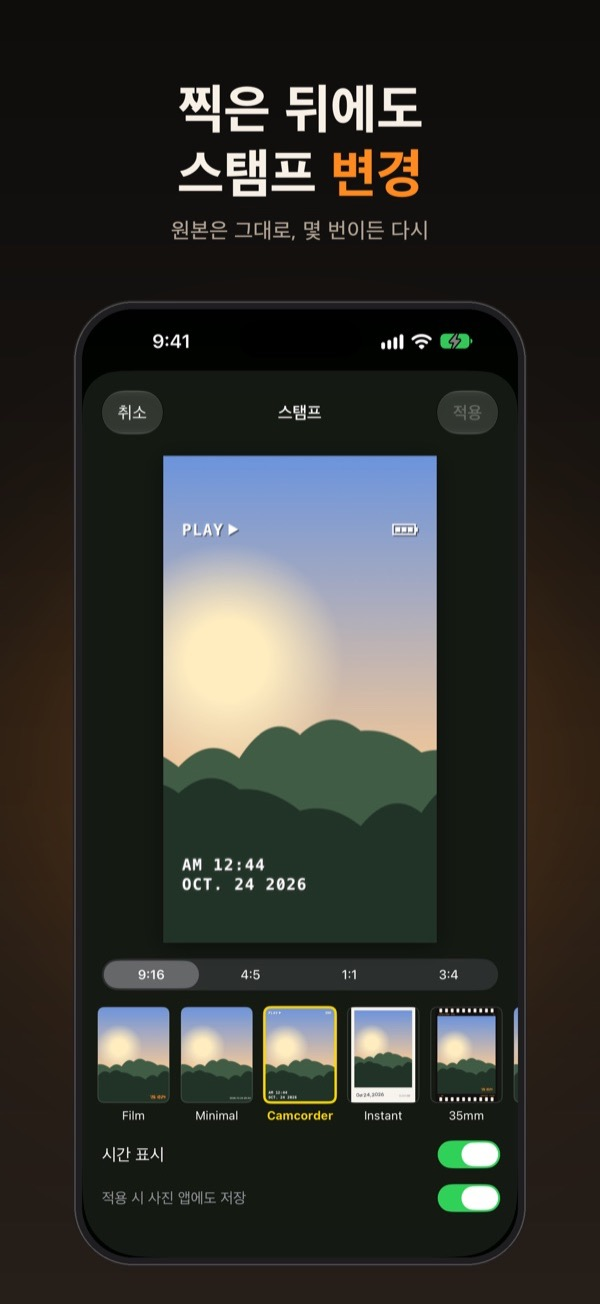
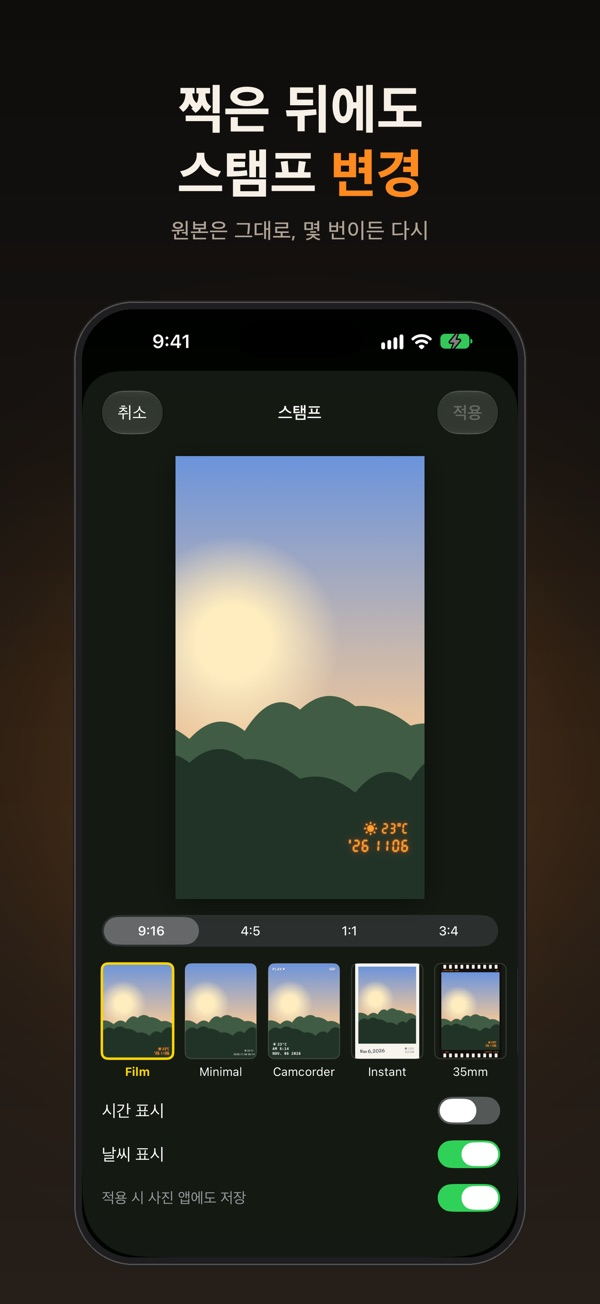
lifestamp: 1.0.5 날씨 스탬프 반영 (랜딩 기능·스크린샷·개인정보 요약·llms)

diff --git a/lifestamp/index.html b/lifestamp/index.html
@@ -8,7 +8,7 @@ permalink: /lifestamp/
   <meta charset="utf-8">
   <meta name="viewport" content="width=device-width, initial-scale=1">
   <title>Lifestamp - 삶의 모든 순간이 하나의 이야기가 됩니다 | 찍는 순간을 새기는 날짜 카메라</title>
-  <meta name="description" content="Lifestamp는 셔터를 누른 순간의 날짜와 시각을 필름 카메라처럼 사진에 새겨 주는 무료 아이폰 카메라 앱입니다. 스탬프 15가지, 9:16 스토리 비율, 찍은 뒤에도 스타일 변경, 원본 해상도 저장. 회원가입·광고 없음.">
+  <meta name="description" content="Lifestamp는 셔터를 누른 순간의 날짜와 시각을 필름 카메라처럼 사진에 새겨 주는 무료 아이폰 카메라 앱입니다. 스탬프 15가지, 촬영 순간의 날씨·기온, 9:16 스토리 비율, 찍은 뒤에도 스타일 변경, 원본 해상도 저장. 회원가입·광고 없음.">
   <link rel="canonical" href="https://cumulus.team/lifestamp/">
   <link rel="alternate" hreflang="ko" href="https://cumulus.team/lifestamp/">
   <link rel="alternate" hreflang="en" href="https://cumulus.team/lifestamp/en/">
@@ -84,12 +84,12 @@ permalink: /lifestamp/
         "zh",
         "es"
       ],
-      "softwareVersion": "1.0.4",
+      "softwareVersion": "1.0.5",
       "datePublished": "2026-10-12",
-      "dateModified": "2026-10-24",
-      "fileSize": "5.2MB",
+      "dateModified": "2026-11-05",
+      "fileSize": "5.3MB",
       "contentRating": "4+",
-      "releaseNotes": "• 새 스탬프 5가지: 소인(Postmark), 고무 도장(Inked), 티켓(Ticket), 영수증(Receipt), 달력(Calendar)\n• 사진 비율을 고를 수 있어요. 카메라 화면의 비율 버튼으로 9:16, 4:5, 1:1, 3:4를 바꾸고, 찍은 뒤 스탬프 편집에서도 바꿀 수 있어요. 기본 9:16은 스토리 크기이고, 스탬프가 스토리 화면의 위아래 메뉴에 가리지 않아요.\n• 카메라 화면이 넓어졌어요. 고른 비율 그대로 화면 폭을 꽉 채우고, 스탬프 크기와 위치도 비율마다 알맞게 맞췄어요.\n• 사진이 처음부터 스토리 크기로 찍히니 따로 있던 '스토리용 공유'는 없앴어요. 이제 공유 버튼 하나로 저장된 사진을 그대로 보내요.\n\n오늘의 한 장에 오늘의 시간을.",
+      "releaseNotes": "• 이제 스탬프에 그 순간의 날씨도 함께 찍혀요. 날씨 아이콘과 온도가 15가지 스탬프 모두에 어울리게 들어가요.\n• 날씨를 받아 오려면 대략적인 위치가 필요해요. 위치를 허용하지 않거나 날씨를 받아 오지 못하면 스탬프는 평소처럼 찍혀요.\n• 날씨를 빼고 싶다면 카메라 설정에서 끄거나, 찍은 뒤 스탬프 변경에서 사진마다 끌 수 있어요.\n\n오늘의 한 장에 오늘의 시간을.",
       "image": {
         "@type": "ImageObject",
         "url": "https://cumulus.team/lifestamp/img/lifestamp-app-icon.png",
@@ -106,6 +106,7 @@ permalink: /lifestamp/
       ],
       "featureList": [
         "셔터를 누른 순간의 날짜·시각을 사진에 스탬프로 새기기",
+        "촬영 순간의 날씨 아이콘·기온 표시(위치 허용 시, 설정에서 끄기 가능)",
         "스탬프 15가지: Film, Minimal, Camcorder, Instant, 35mm, Timemark, Magazine, Postmark, Inked, Ticket, Receipt, Calendar, Scribble, Sticker, Marker",
         "화면을 좌우로 넘겨 스탬프 스타일 전환",
         "사진 비율 9:16(스토리)·4:5·1:1·3:4 선택",
@@ -134,7 +135,7 @@ permalink: /lifestamp/
       "about": {
         "@id": "https://cumulus.team/lifestamp/#app"
       },
-      "dateModified": "2026-10-29"
+      "dateModified": "2026-11-06"
     },
     {
       "@type": "FAQPage",
@@ -331,7 +332,7 @@ header.hero :focus-visible{outline-color:#fff;box-shadow:0 0 0 6px rgba(0,0,0,.6
         <div><dt>카테고리</dt><dd class="as-val">사진 및 비디오</dd></div>
         <div><dt>개발자</dt><dd class="as-cap">Team Cumulus</dd></div>
         <div><dt>언어</dt><dd class="as-val">KO</dd><dd class="as-cap">외 6개 언어</dd></div>
-        <div><dt>크기</dt><dd class="as-val">5.2</dd><dd class="as-cap">MB</dd></div>
+        <div><dt>크기</dt><dd class="as-val">5.3</dd><dd class="as-cap">MB</dd></div>
       </dl></div></div>
     <section id="summary" aria-labelledby="h-summary">
       <div class="wrap">
@@ -356,9 +357,9 @@ header.hero :focus-visible{outline-color:#fff;box-shadow:0 0 0 6px rgba(0,0,0,.6
       <div class="wrap">
         <h2 id="h-screens">미리 보기</h2>
         <ul class="as-shots" tabindex="0" aria-label="스크린샷 5장, 좌우로 넘겨 보기">
-          <li><figure><img src="/lifestamp/img/screen-01.jpg" width="600" height="1304" loading="lazy" alt="카메라 화면: 9:16 풍경 미리보기 오른쪽 아래에 주황색 필름 날짜 스탬프 '26 10 24"><figcaption>찍는 순간 시각을 새기는 카메라</figcaption></figure></li>
+          <li><figure><img src="/lifestamp/img/screen-01.jpg" width="600" height="1304" loading="lazy" alt="카메라 화면: 9:16 풍경 미리보기 오른쪽 아래에 주황색 필름 날짜 스탬프 '26 11 06과 맑음 아이콘·23°C"><figcaption>찍는 순간 시각과 날씨를 새기는 카메라</figcaption></figure></li>
           <li><figure><img src="/lifestamp/img/screen-02.jpg" width="600" height="1304" loading="lazy" alt="즉석사진 스타일: 흰 테두리 아래에 날짜가 적힌 미리보기"><figcaption>스탬프 15가지</figcaption></figure></li>
-          <li><figure><img src="/lifestamp/img/screen-03.jpg" width="600" height="1304" loading="lazy" alt="스탬프 변경 화면: 찍은 사진의 비율(9:16·4:5·1:1·3:4), 스타일, 시간 표시를 바꾸는 편집기"><figcaption>찍은 뒤에도 스탬프 변경</figcaption></figure></li>
+          <li><figure><img src="/lifestamp/img/screen-03.jpg" width="600" height="1304" loading="lazy" alt="스탬프 변경 화면: 찍은 사진의 비율(9:16·4:5·1:1·3:4), 스타일, 시간·날씨 표시를 바꾸는 편집기"><figcaption>찍은 뒤에도 스탬프 변경</figcaption></figure></li>
           <li><figure><img src="/lifestamp/img/screen-04.jpg" width="600" height="1304" loading="lazy" alt="갤러리: 월별로 정리된 사진 격자"><figcaption>월별로 모아 보는 갤러리</figcaption></figure></li>
           <li><figure><img src="/lifestamp/img/screen-05.jpg" width="600" height="1304" loading="lazy" alt="사진 상세 화면: 캠코더 스타일 스탬프가 들어간 사진과 공유 버튼"><figcaption>원본 해상도로 저장·공유</figcaption></figure></li>
         </ul>
@@ -379,6 +380,7 @@ header.hero :focus-visible{outline-color:#fff;box-shadow:0 0 0 6px rgba(0,0,0,.6
         <h2>주요 기능</h2>
         <ul class="features">
           <li><strong>촬영 시각 스탬프</strong>셔터를 누른 순간의 날짜·시각이 미리보기 그대로 사진에 새겨져요.</li>
+          <li><strong>날씨까지 함께</strong>찍는 순간의 날씨 아이콘과 기온이 스탬프에 함께 들어가요. 위치를 허용하지 않거나 날씨를 받지 못하면 날씨 없이 찍혀요. 설정에서 끌 수 있어요.</li>
           <li><strong>스탬프 15가지</strong>화면을 좌우로 넘기면 필름, 캠코더, 즉석사진, 소인, 영수증 등으로 바로 바뀌어요.</li>
           <li><strong>사진 비율 선택</strong>9:16, 4:5, 1:1, 3:4 중에서 골라요. 기본 9:16은 스토리 크기라 스탬프가 위아래 메뉴에 가리지 않아요.</li>
           <li><strong>찍은 뒤에도 변경</strong>원본을 그대로 보관해서 스타일, 비율, 시각 표시를 몇 번이든 다시 바꿀 수 있어요.</li>
@@ -396,12 +398,11 @@ header.hero :focus-visible{outline-color:#fff;box-shadow:0 0 0 6px rgba(0,0,0,.6
     <section id="whats-new" aria-labelledby="h-new">
       <div class="wrap">
         <h2 id="h-new">새로운 기능</h2>
-        <p class="as-meta"><span>버전 1.0.4</span><time datetime="2026-10-23T21:29:33Z">2026년 10월 24일</time></p>
+        <p class="as-meta"><span>버전 1.0.5</span><time datetime="2026-11-04T21:43:55Z">2026년 11월 5일</time></p>
         <ul class="as-notes">
-          <li>새 스탬프 5가지: 소인(Postmark), 고무 도장(Inked), 티켓(Ticket), 영수증(Receipt), 달력(Calendar)</li>
-          <li>사진 비율을 고를 수 있어요. 카메라 화면의 비율 버튼으로 9:16, 4:5, 1:1, 3:4를 바꾸고, 찍은 뒤 스탬프 편집에서도 바꿀 수 있어요. 기본 9:16은 스토리 크기이고, 스탬프가 스토리 화면의 위아래 메뉴에 가리지 않아요.</li>
-          <li>카메라 화면이 넓어졌어요. 고른 비율 그대로 화면 폭을 꽉 채우고, 스탬프 크기와 위치도 비율마다 알맞게 맞췄어요.</li>
-          <li>사진이 처음부터 스토리 크기로 찍히니 따로 있던 '스토리용 공유'는 없앴어요. 이제 공유 버튼 하나로 저장된 사진을 그대로 보내요.</li>
+          <li>이제 스탬프에 그 순간의 날씨도 함께 찍혀요. 날씨 아이콘과 온도가 15가지 스탬프 모두에 어울리게 들어가요.</li>
+          <li>날씨를 받아 오려면 대략적인 위치가 필요해요. 위치를 허용하지 않거나 날씨를 받아 오지 못하면 스탬프는 평소처럼 찍혀요.</li>
+          <li>날씨를 빼고 싶다면 카메라 설정에서 끄거나, 찍은 뒤 스탬프 변경에서 사진마다 끌 수 있어요.</li>
         </ul>
         <p>오늘의 한 장에 오늘의 시간을.</p>
       </div>
@@ -451,7 +452,7 @@ header.hero :focus-visible{outline-color:#fff;box-shadow:0 0 0 6px rgba(0,0,0,.6
         <h2 id="h-priv">앱 개인정보 보호</h2>
         <ul class="as-priv">
           <li><strong>수집하는 정보</strong>앱 개선을 위해 익명 오류 정보와 사용 통계만 수집하며 광고 식별자(IDFA)는 쓰지 않습니다.</li>
-          <li><strong>기기에만 저장</strong>사진과 촬영 시각은 기기 안에만 저장되고 서버로 보내지 않습니다.</li>
+          <li><strong>기기에만 저장</strong>사진과 촬영 시각은 기기 안에만 저장되고 서버로 보내지 않습니다. 날씨를 받을 때만 약 1km 단위로 줄인 위치를 날씨 서비스(Open-Meteo)에 보냅니다.</li>
         </ul>
         <p class="as-src">개인정보 처리방침에서 옮긴 요약입니다.</p>
         <p><a href="/lifestamp/privacy/">개인정보 처리방침</a></p>
@@ -463,7 +464,7 @@ header.hero :focus-visible{outline-color:#fff;box-shadow:0 0 0 6px rgba(0,0,0,.6
         <h2 id="h-info">정보</h2>
         <dl class="as-info">
           <div><dt>개발자</dt><dd>Team Cumulus</dd></div>
-          <div><dt>크기</dt><dd>5.2MB</dd></div>
+          <div><dt>크기</dt><dd>5.3MB</dd></div>
           <div><dt>카테고리</dt><dd>사진 및 비디오, 라이프스타일</dd></div>
           <div><dt>호환성</dt><dd>iPhone · iOS 17.0 이상 필요</dd></div>
           <div><dt>언어</dt><dd>영어, 프랑스어, 독일어, 일본어, 한국어, 중국어, 스페인어</dd></div>
@@ -471,7 +472,7 @@ header.hero :focus-visible{outline-color:#fff;box-shadow:0 0 0 6px rgba(0,0,0,.6
           <div><dt>가격</dt><dd>무료</dd></div>
           <div><dt>최초 출시</dt><dd>2026년 10월 12일</dd></div>
         </dl>
-        <p class="as-src">App Store 정보 확인: <time datetime="2026-11-05">2026년 11월 5일</time></p>
+        <p class="as-src">App Store 정보 확인: <time datetime="2026-11-06">2026년 11월 6일</time></p>
       </div>
     </section>
 
@@ -504,7 +505,7 @@ header.hero :focus-visible{outline-color:#fff;box-shadow:0 0 0 6px rgba(0,0,0,.6
   <footer>
     <div class="wrap">
       <p>Lifestamp · 만든 곳 <a href="https://cumulus.team/">Team Cumulus</a> · 문의 <a href="mailto:contact@cumulus.team">contact@cumulus.team</a></p>
-      <p><a href="/lifestamp/support/">지원</a> · <a href="/lifestamp/privacy/">개인정보 처리방침</a> · <!-- appstore:updated:start -->최종 수정 <time datetime="2026-10-29">2026년 10월 29일</time> (앱 1.0.4 기준)<!-- appstore:updated:end --> · <a href="/lifestamp/en/" hreflang="en">English</a></p>
+      <p><a href="/lifestamp/support/">지원</a> · <a href="/lifestamp/privacy/">개인정보 처리방침</a> · <!-- appstore:updated:start -->최종 수정 <time datetime="2026-11-06">2026년 11월 6일</time> (앱 1.0.5 기준)<!-- appstore:updated:end --> · <a href="/lifestamp/en/" hreflang="en">English</a></p>
     </div>
   </footer>
 </body>

diff --git a/lifestamp/en/index.html b/lifestamp/en/index.html
@@ -8,7 +8,7 @@ permalink: /lifestamp/en/
   <meta charset="utf-8">
   <meta name="viewport" content="width=device-width, initial-scale=1">
   <title>Lifestamp - Your life. Your story. | Date Stamp Camera for iPhone</title>
-  <meta name="description" content="Lifestamp is a free iPhone camera that stamps the date and time onto your photo the moment you shoot, like a film camera. 15 stamp styles, Story-sized 9:16 photos. No sign-up, no ads.">
+  <meta name="description" content="Lifestamp is a free iPhone camera that stamps the date and time onto your photo the moment you shoot, like a film camera. 15 stamp styles, the weather at the moment you shoot, Story-sized 9:16 photos. No sign-up, no ads.">
   <link rel="canonical" href="https://cumulus.team/lifestamp/en/">
   <link rel="alternate" hreflang="ko" href="https://cumulus.team/lifestamp/">
   <link rel="alternate" hreflang="en" href="https://cumulus.team/lifestamp/en/">
@@ -84,12 +84,12 @@ permalink: /lifestamp/en/
         "zh",
         "es"
       ],
-      "softwareVersion": "1.0.4",
+      "softwareVersion": "1.0.5",
       "datePublished": "2026-10-12",
-      "dateModified": "2026-10-23",
-      "fileSize": "5.2MB",
+      "dateModified": "2026-11-04",
+      "fileSize": "5.3MB",
       "contentRating": "4+",
-      "releaseNotes": "• 5 new stamps: Postmark, Inked, Ticket, Receipt and Calendar.\n• Choose your aspect ratio. Tap the ratio button on the camera to switch between 9:16, 4:5, 1:1 and 3:4, or change it later in the stamp editor. The default 9:16 is Story-sized, and your stamp stays clear of the Stories controls at the top and bottom.\n• A bigger viewfinder: your chosen ratio now fills the full width of the screen, and stamps are sized and placed to fit each ratio.\n• Since photos are now Story-sized from the start, the separate Share for Stories option is gone. One Share button sends your saved photo as it is.\n\nToday's shot, stamped with today's time.",
+      "releaseNotes": "• Your stamp now remembers the weather. A weather icon and the temperature join the date on all 15 stamps.\n• Weather needs your approximate location. If you don't allow it, or the weather can't be fetched, your stamp looks the way it always has.\n• Prefer it without? Turn it off in the camera settings, or for any photo under Change Stamp.\n\nToday's shot, stamped with today's time.",
       "image": {
         "@type": "ImageObject",
         "url": "https://cumulus.team/lifestamp/img/lifestamp-app-icon.png",
@@ -106,6 +106,7 @@ permalink: /lifestamp/en/
       ],
       "featureList": [
         "Stamps the date and time of capture onto the photo",
+        "Adds a weather icon and temperature from the moment you shoot (with location access, can be turned off)",
         "15 stamp styles: Film, Minimal, Camcorder, Instant, 35mm, Timemark, Magazine, Postmark, Inked, Ticket, Receipt, Calendar, Scribble, Sticker, Marker",
         "Swipe left or right to switch stamp styles",
         "Photo aspect ratios: 9:16 (Stories), 4:5, 1:1, 3:4",
@@ -134,7 +135,7 @@ permalink: /lifestamp/en/
       "about": {
         "@id": "https://cumulus.team/lifestamp/#app"
       },
-      "dateModified": "2026-10-29"
+      "dateModified": "2026-11-06"
     },
     {
       "@type": "FAQPage",
@@ -331,7 +332,7 @@ header.hero :focus-visible{outline-color:#fff;box-shadow:0 0 0 6px rgba(0,0,0,.6
         <div><dt>Category</dt><dd class="as-val">Photo &amp; Video</dd></div>
         <div><dt>Developer</dt><dd class="as-cap">Team Cumulus</dd></div>
         <div><dt>Language</dt><dd class="as-val">EN</dd><dd class="as-cap">+ 6 More</dd></div>
-        <div><dt>Size</dt><dd class="as-val">5.2</dd><dd class="as-cap">MB</dd></div>
+        <div><dt>Size</dt><dd class="as-val">5.3</dd><dd class="as-cap">MB</dd></div>
       </dl></div></div>
     <section id="summary" aria-labelledby="h-summary">
       <div class="wrap">
@@ -356,9 +357,9 @@ header.hero :focus-visible{outline-color:#fff;box-shadow:0 0 0 6px rgba(0,0,0,.6
       <div class="wrap">
         <h2 id="h-screens">Screenshots</h2>
         <ul class="as-shots" tabindex="0" aria-label="5 screenshots, scroll sideways">
-          <li><figure><img src="/lifestamp/img/en/screen-01.jpg" width="600" height="1304" loading="lazy" alt="Camera screen with an orange film-style date stamp in the bottom right of a 9:16 preview"><figcaption>A camera that stamps the moment</figcaption></figure></li>
+          <li><figure><img src="/lifestamp/img/en/screen-01.jpg" width="600" height="1304" loading="lazy" alt="Camera screen with an orange film-style date stamp and a sunny 23°C weather badge in the bottom right of a 9:16 preview"><figcaption>A camera that stamps the moment and the weather</figcaption></figure></li>
           <li><figure><img src="/lifestamp/img/en/screen-02.jpg" width="600" height="1304" loading="lazy" alt="Instant style preview with the date written below a white border"><figcaption>15 stamp styles</figcaption></figure></li>
-          <li><figure><img src="/lifestamp/img/en/screen-03.jpg" width="600" height="1304" loading="lazy" alt="Stamp editor for changing the aspect ratio (9:16, 4:5, 1:1, 3:4), style and time display of a photo"><figcaption>Change the stamp anytime</figcaption></figure></li>
+          <li><figure><img src="/lifestamp/img/en/screen-03.jpg" width="600" height="1304" loading="lazy" alt="Stamp editor for changing the aspect ratio (9:16, 4:5, 1:1, 3:4), style, and time and weather display of a photo"><figcaption>Change the stamp anytime</figcaption></figure></li>
           <li><figure><img src="/lifestamp/img/en/screen-04.jpg" width="600" height="1304" loading="lazy" alt="Gallery grid of photos sorted by month"><figcaption>A gallery sorted by month</figcaption></figure></li>
           <li><figure><img src="/lifestamp/img/en/screen-05.jpg" width="600" height="1304" loading="lazy" alt="Photo detail screen with a camcorder-style stamp and a share button"><figcaption>Save and share in full resolution</figcaption></figure></li>
         </ul>
@@ -379,6 +380,7 @@ header.hero :focus-visible{outline-color:#fff;box-shadow:0 0 0 6px rgba(0,0,0,.6
         <h2>Features</h2>
         <ul class="features">
           <li><strong>Capture-time stamp</strong>The date and time you press the shutter appear on the photo exactly as in the preview.</li>
+          <li><strong>Weather included</strong>The weather icon and temperature at the moment you shoot go into the stamp. Without location access, or if the weather can't be loaded, the photo is stamped without it. You can turn it off in Settings.</li>
           <li><strong>15 stamp styles</strong>Swipe left or right to switch between film, camcorder, instant, postmark, receipt and more.</li>
           <li><strong>Aspect ratios</strong>Choose 9:16, 4:5, 1:1 or 3:4. The default 9:16 is Story-sized, and the stamp stays clear of the Stories menus.</li>
           <li><strong>Change it later</strong>Your original is kept, so you can change the style, aspect ratio or time display again and again.</li>
@@ -396,12 +398,11 @@ header.hero :focus-visible{outline-color:#fff;box-shadow:0 0 0 6px rgba(0,0,0,.6
     <section id="whats-new" aria-labelledby="h-new">
       <div class="wrap">
         <h2 id="h-new">What's New</h2>
-        <p class="as-meta"><span>Version 1.0.4</span><time datetime="2026-10-23T21:29:33Z">October 23, 2026</time></p>
+        <p class="as-meta"><span>Version 1.0.5</span><time datetime="2026-11-04T21:43:55Z">November 4, 2026</time></p>
         <ul class="as-notes">
-          <li>5 new stamps: Postmark, Inked, Ticket, Receipt and Calendar.</li>
-          <li>Choose your aspect ratio. Tap the ratio button on the camera to switch between 9:16, 4:5, 1:1 and 3:4, or change it later in the stamp editor. The default 9:16 is Story-sized, and your stamp stays clear of the Stories controls at the top and bottom.</li>
-          <li>A bigger viewfinder: your chosen ratio now fills the full width of the screen, and stamps are sized and placed to fit each ratio.</li>
-          <li>Since photos are now Story-sized from the start, the separate Share for Stories option is gone. One Share button sends your saved photo as it is.</li>
+          <li>Your stamp now remembers the weather. A weather icon and the temperature join the date on all 15 stamps.</li>
+          <li>Weather needs your approximate location. If you don't allow it, or the weather can't be fetched, your stamp looks the way it always has.</li>
+          <li>Prefer it without? Turn it off in the camera settings, or for any photo under Change Stamp.</li>
         </ul>
         <p>Today's shot, stamped with today's time.</p>
       </div>
@@ -451,7 +452,7 @@ header.hero :focus-visible{outline-color:#fff;box-shadow:0 0 0 6px rgba(0,0,0,.6
         <h2 id="h-priv">App Privacy</h2>
         <ul class="as-priv">
           <li><strong>Data collected</strong>To improve the app, it collects only anonymous error reports and usage statistics, and it doesn't use the advertising identifier (IDFA).</li>
-          <li><strong>Stays on your device</strong>Your photos and their capture times stay on your device and are never uploaded.</li>
+          <li><strong>Stays on your device</strong>Your photos and their capture times stay on your device and are never uploaded. Only for the weather stamp, a location rounded to about 1 km is sent to the weather service (Open-Meteo).</li>
         </ul>
         <p class="as-src">Summarized from our privacy policy.</p>
         <p><a href="/lifestamp/en/privacy/">Privacy Policy</a></p>
@@ -463,7 +464,7 @@ header.hero :focus-visible{outline-color:#fff;box-shadow:0 0 0 6px rgba(0,0,0,.6
         <h2 id="h-info">Information</h2>
         <dl class="as-info">
           <div><dt>Developer</dt><dd>Team Cumulus</dd></div>
-          <div><dt>Size</dt><dd>5.2MB</dd></div>
+          <div><dt>Size</dt><dd>5.3MB</dd></div>
           <div><dt>Category</dt><dd>Photo &amp; Video, Lifestyle</dd></div>
           <div><dt>Compatibility</dt><dd>iPhone · Requires iOS 17.0 or later</dd></div>
           <div><dt>Languages</dt><dd>English, French, German, Japanese, Korean, Chinese, Spanish</dd></div>
@@ -471,7 +472,7 @@ header.hero :focus-visible{outline-color:#fff;box-shadow:0 0 0 6px rgba(0,0,0,.6
           <div><dt>Price</dt><dd>Free</dd></div>
           <div><dt>Released</dt><dd>October 12, 2026</dd></div>
         </dl>
-        <p class="as-src">App Store information checked: <time datetime="2026-11-05">November 5, 2026</time></p>
+        <p class="as-src">App Store information checked: <time datetime="2026-11-06">November 6, 2026</time></p>
       </div>
     </section>
 
@@ -504,7 +505,7 @@ header.hero :focus-visible{outline-color:#fff;box-shadow:0 0 0 6px rgba(0,0,0,.6
   <footer>
     <div class="wrap">
       <p>Lifestamp · made by <a href="https://cumulus.team/">Team Cumulus</a> · contact <a href="mailto:contact@cumulus.team">contact@cumulus.team</a></p>
-      <p><a href="/lifestamp/en/support/">Support</a> · <a href="/lifestamp/en/privacy/">Privacy Policy</a> · <!-- appstore:updated:start -->Last updated <time datetime="2026-10-29">October 29, 2026</time> (app 1.0.4)<!-- appstore:updated:end --> · <a href="/lifestamp/" hreflang="ko">한국어</a></p>
+      <p><a href="/lifestamp/en/support/">Support</a> · <a href="/lifestamp/en/privacy/">Privacy Policy</a> · <!-- appstore:updated:start -->Last updated <time datetime="2026-11-06">November 6, 2026</time> (app 1.0.5)<!-- appstore:updated:end --> · <a href="/lifestamp/" hreflang="ko">한국어</a></p>
     </div>
   </footer>
 </body>

diff --git a/index.html b/index.html
@@ -294,7 +294,7 @@ header.hero :focus-visible{outline-color:#fff;box-shadow:0 0 0 6px rgba(0,0,0,.6
             <p class="as-links"><a href="https://apps.apple.com/kr/app/id6826716719?pt=129567498&amp;ct=web-hub&amp;mt=8">App Store에서 보기</a> · <a href="/walk/support/">지원</a> · <a href="/walk/privacy/">개인정보 처리방침</a></p>
           </li>
         </ul>
-        <p class="as-src">App Store 정보 확인: <time datetime="2026-11-05">2026년 11월 5일</time></p>
+        <p class="as-src">App Store 정보 확인: <time datetime="2026-11-06">2026년 11월 6일</time></p>
         <!-- appstore:hub-apps:end -->
       </div>
     </section>
